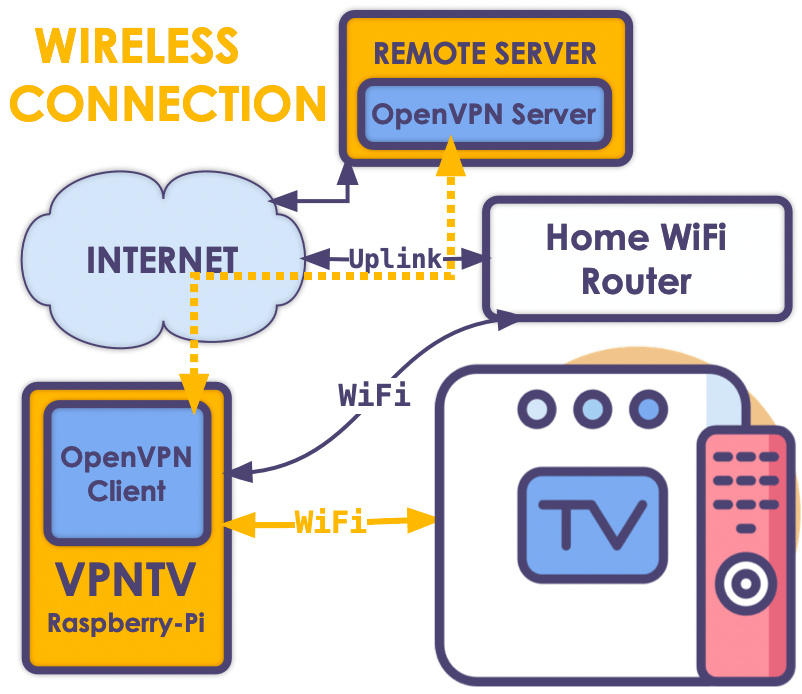
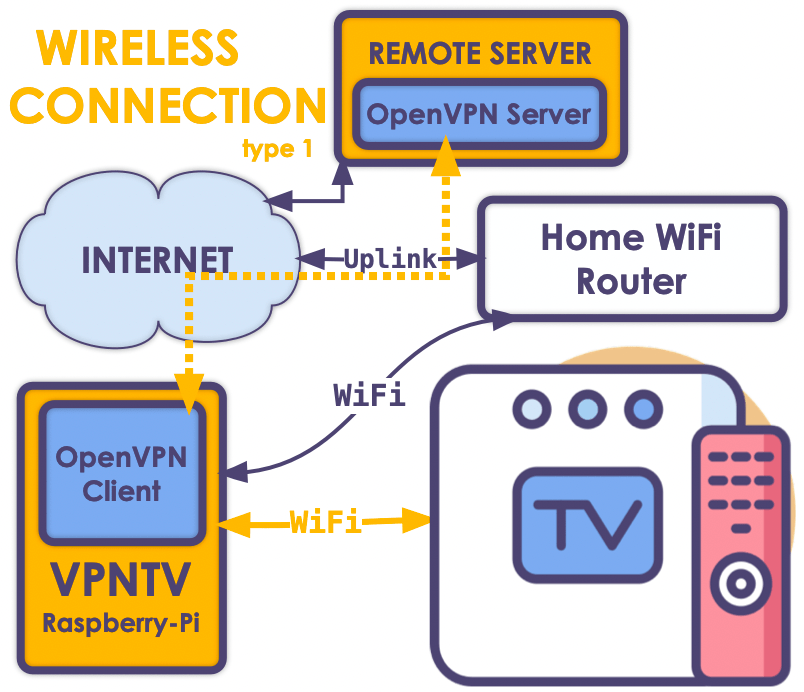
Images update

diff --git a/README.md b/README.md
@@ -1,7 +1,7 @@
 # VPNTV project
 **OpenVPN Client for any TV or TV-boxes**, provides OpenVPN client running as a service on your Raspberry Pi or any other Linux device. Supports **Wired** (Ethernet cable) and **Wireless** (WiFi) connection types to your TV. You may use [respberry-gateway](https://github.com/d3vilh/raspberry-gateway) or [openvpn-aws](https://github.com/d3vilh/openvpn-aws) to create your own VPN server and generate client configuration files compatible with this project. 
 
-<img src="https://github.com/d3vilh/vpntv/raw/main/images/vpntv-wireless.png" alt="wireless connection" width="255" border="1" /> <img src="https://github.com/d3vilh/vpntv/raw/main/images/vpntv-wired.png" alt="wired connection type 1" width="250" border="1" /> <img src="https://github.com/d3vilh/vpntv/raw/main/images/vpntv-wired2.png" alt="wired connection type 2" width="255" border="1" />
+<img src="https://github.com/d3vilh/vpntv/raw/main/images/vpntv-wireless.png" alt="wireless connection type 1" width="255" border="1" /> <img src="https://github.com/d3vilh/vpntv/raw/main/images/vpntv-wireless2.png" alt="wireless connection type 2" width="255" border="1" /> <img src="https://github.com/d3vilh/vpntv/raw/main/images/vpntv-wired.png" alt="wired connection" width="250" border="1" />
 
 At the moment project supports WiFi connection only, but Ethernet connection functionality is already in development.
 
